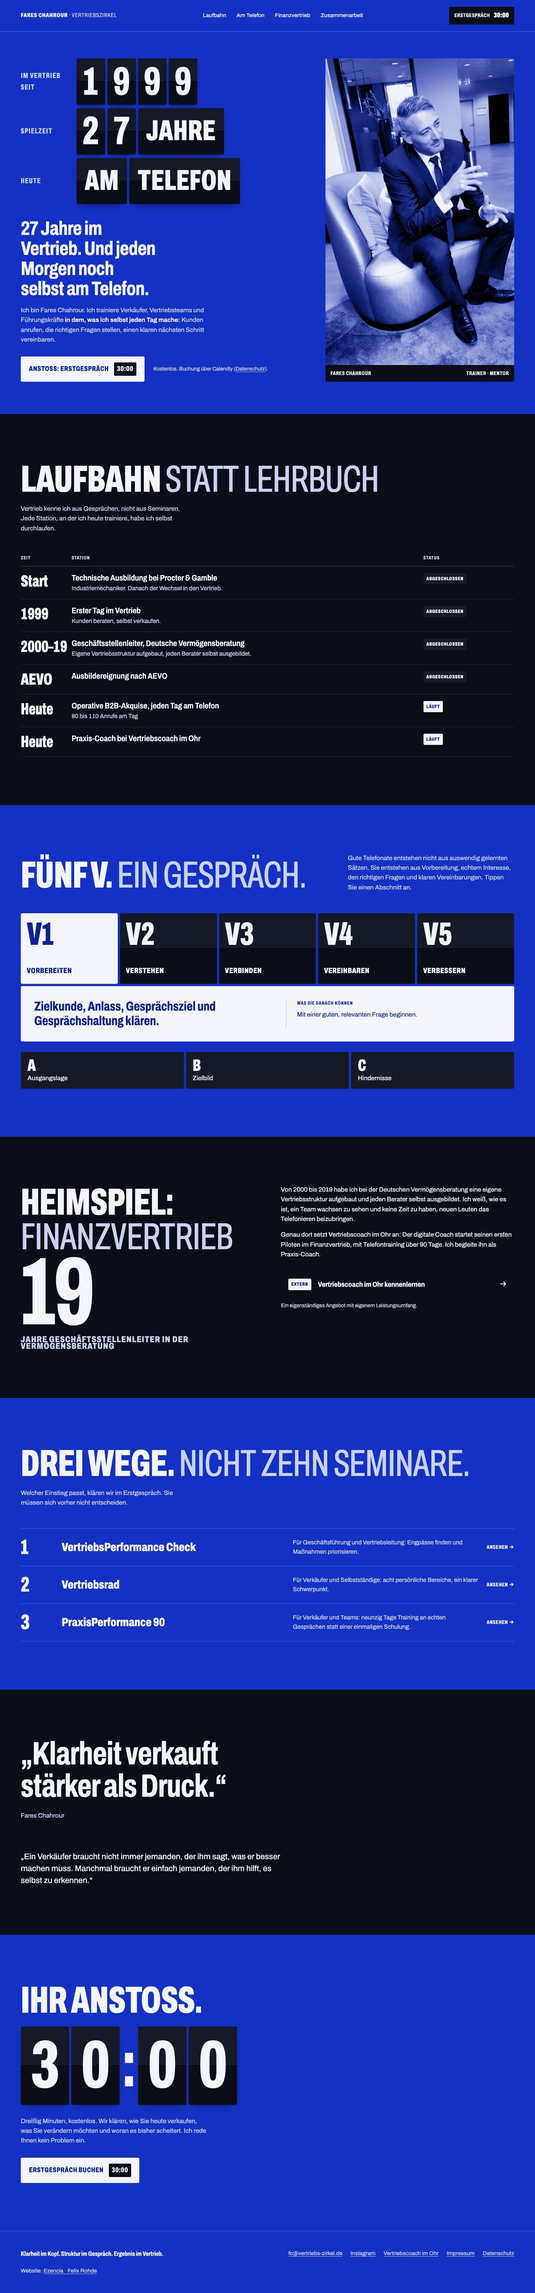
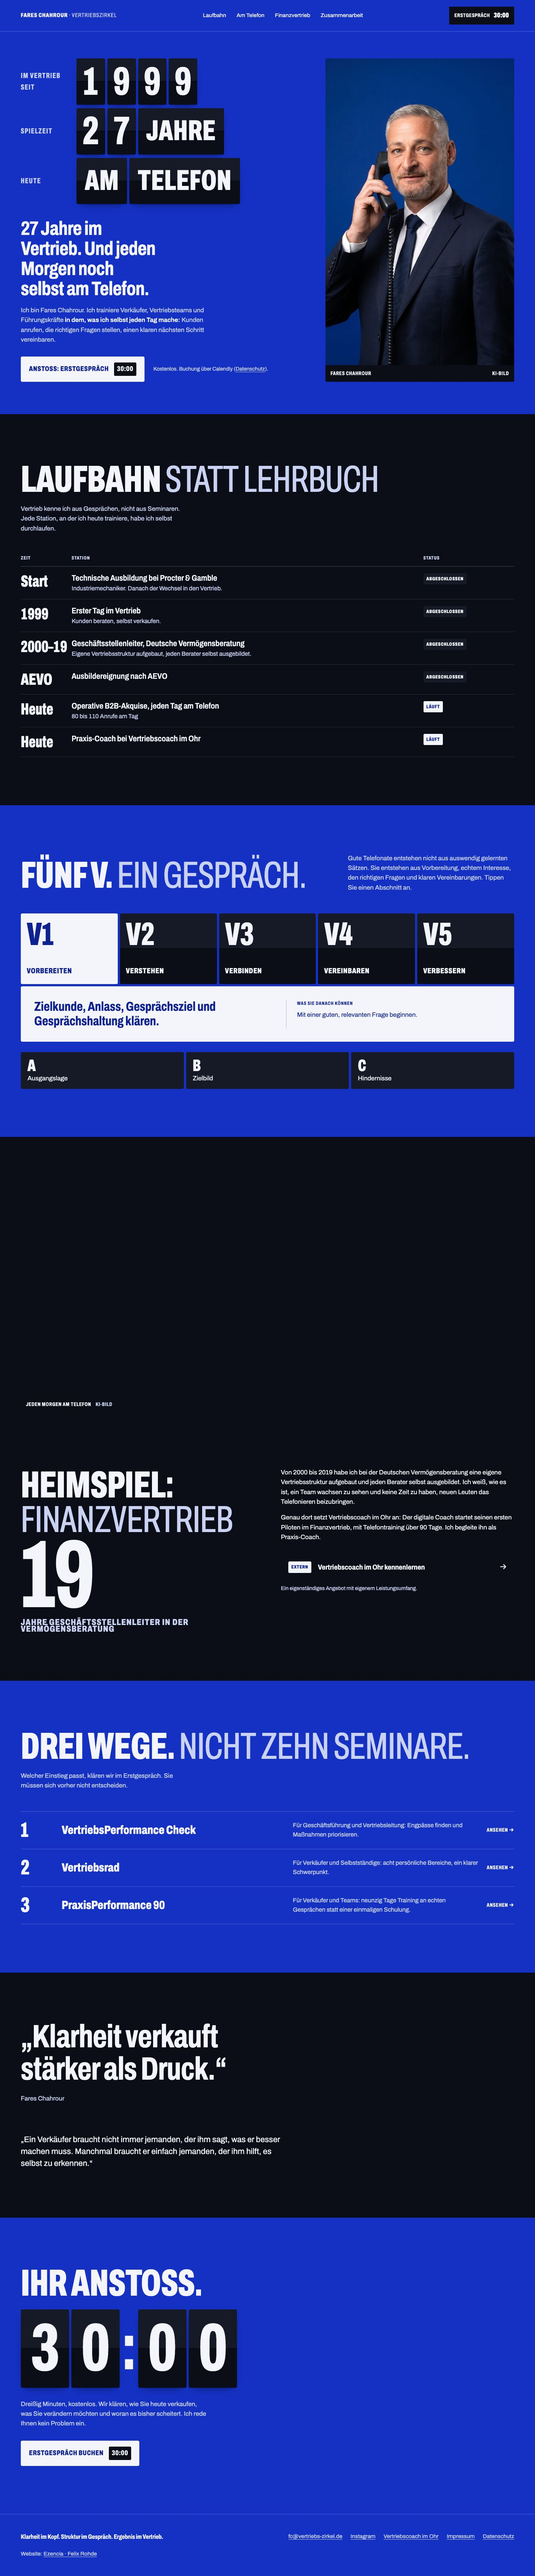
Richtung A: zwei KI-Bilder von Fares (Nano Banana Pro), als KI-Bild gekennzeichnet

diff --git a/neuanfang/a-anzeigetafel/index.html b/neuanfang/a-anzeigetafel/index.html
@@ -63,8 +63,7 @@ img{display:block;max-width:100%}
 .btn .t{background:var(--tafel);color:var(--weiss);padding:4px 8px;border-radius:3px;font-variant-numeric:tabular-nums}
 .klein{font-size:14px;color:var(--weiss-2)}
 .foto{position:relative;align-self:stretch;min-height:420px;background:var(--tafel);border-radius:4px;overflow:hidden}
-.foto img{position:absolute;inset:0;width:100%;height:100%;object-fit:cover;object-position:50% 20%;filter:grayscale(1) contrast(1.15) brightness(.95);mix-blend-mode:luminosity}
-.foto::after{content:"";position:absolute;inset:0;background:var(--blau);mix-blend-mode:color;opacity:.55}
+.foto img{position:absolute;inset:0;width:100%;height:100%;object-fit:cover;object-position:50% 30%}
 .foto figcaption{position:absolute;left:0;right:0;bottom:0;z-index:2;display:flex;justify-content:space-between;gap:12px;padding:12px 14px;background:var(--tafel);font-stretch:70%;font-weight:700;text-transform:uppercase;letter-spacing:.06em;font-size:14px}
 .freigabe{background:none;color:inherit;border-bottom:2px dotted #FFD9D9;position:relative}
 .freigabe::after{content:"Freigabe Fares";font:600 10px/1 Archivo,sans-serif;font-stretch:80%;letter-spacing:.06em;text-transform:uppercase;background:#FFD9D9;color:#6B0A0A;padding:3px 5px;border-radius:2px;margin-left:6px;vertical-align:middle;white-space:nowrap}
@@ -132,6 +131,10 @@ blockquote+p{margin-top:24px;color:var(--weiss-2)}
 .uhr .flap{--flap-h:clamp(88px,15vw,210px)}
 .uhr .punkt{font-stretch:62%;font-weight:800;font-size:clamp(70px,12vw,170px);line-height:1;align-self:center;color:var(--weiss)}
 
+.morgen{position:relative;margin:0;background:var(--tafel)}
+.morgen img{width:100%;height:clamp(320px,56vw,760px);object-fit:cover;object-position:40% 40%}
+.morgen figcaption{position:absolute;left:var(--gutter);bottom:20px;display:flex;gap:12px;background:var(--tafel);padding:10px 14px;font-stretch:70%;font-weight:700;text-transform:uppercase;letter-spacing:.06em;font-size:14px}
+.morgen figcaption span+span{color:var(--weiss-2)}
 footer{padding-block:48px;border-top:1px solid rgba(243,245,251,.25);font-size:15px;color:var(--weiss-2)}
 footer .zeilen{display:flex;flex-wrap:wrap;justify-content:space-between;gap:24px}
 footer ul{list-style:none;display:flex;flex-wrap:wrap;gap:8px 22px}
@@ -188,8 +191,8 @@ footer .claim{font-stretch:75%;font-weight:700;color:var(--weiss);font-size:17px
     </div>
   </div>
   <figure class="foto">
-    <img src="../assets/fares-gespraech.jpg" alt="Fares Chahrour im dunkelblauen Anzug, im Gespräch, mit erklärender Geste" width="900" height="1454">
-    <figcaption><span>Fares Chahrour</span><span>Trainer · Mentor</span></figcaption>
+    <img src="../assets/fares-ki-held.jpg" alt="Fares Chahrour im dunkelblauen Anzug vor blauem Hintergrund, mit einem Telefonhörer am Ohr" width="1200" height="1490">
+    <figcaption><span>Fares Chahrour</span><span>KI-Bild</span></figcaption>
   </figure>
 </div>
 
@@ -235,6 +238,8 @@ footer .claim{font-stretch:75%;font-weight:700;color:var(--weiss);font-size:17px
     </div>
   </div>
 </section>
+
+<figure class="morgen"><img src="../assets/fares-ki-morgen.jpg" alt="Fares Chahrour am Schreibtisch im Morgenlicht, telefonierend, mit erklärender Hand" width="1600" height="1073" loading="lazy"><figcaption><span>Jeden Morgen am Telefon</span><span>KI-Bild</span></figcaption></figure>
 
 <section class="dunkel" id="finanz">
   <div class="wrap heim">
